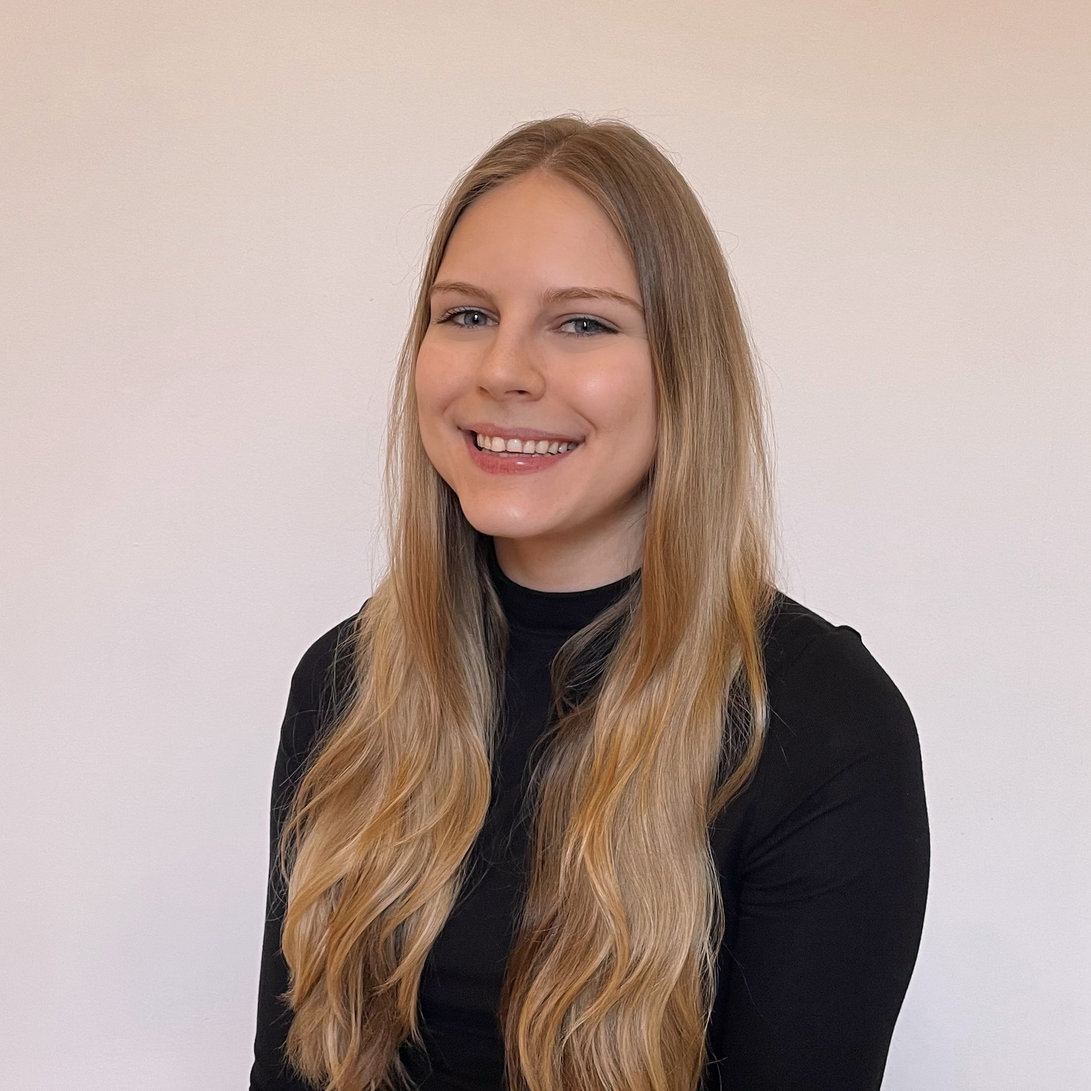
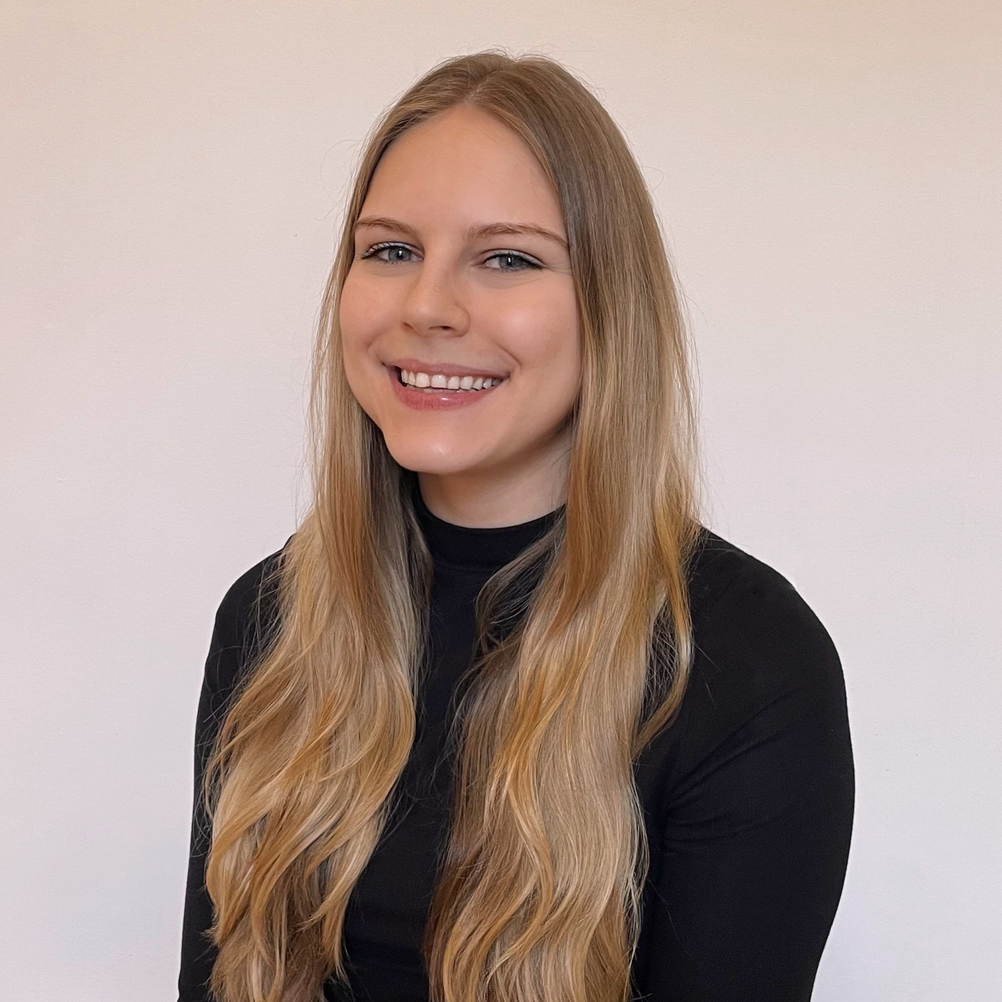
updated about img

diff --git a/index.html b/index.html
@@ -47,7 +47,7 @@
                 <h3 id="about">About Me</h3>
                 <div class="aboutContent">
                     <div class="imagecontainer">
-                        <img src="./assets/ggg2.jpg" alt="Seanna Stewart">
+                        <img src="./assets/ggg.jpg" alt="Seanna Stewart">
                     </div>
                     <div class="aboutText">
                         <p class="firstPara">Hi! I'm Seanna</p>
